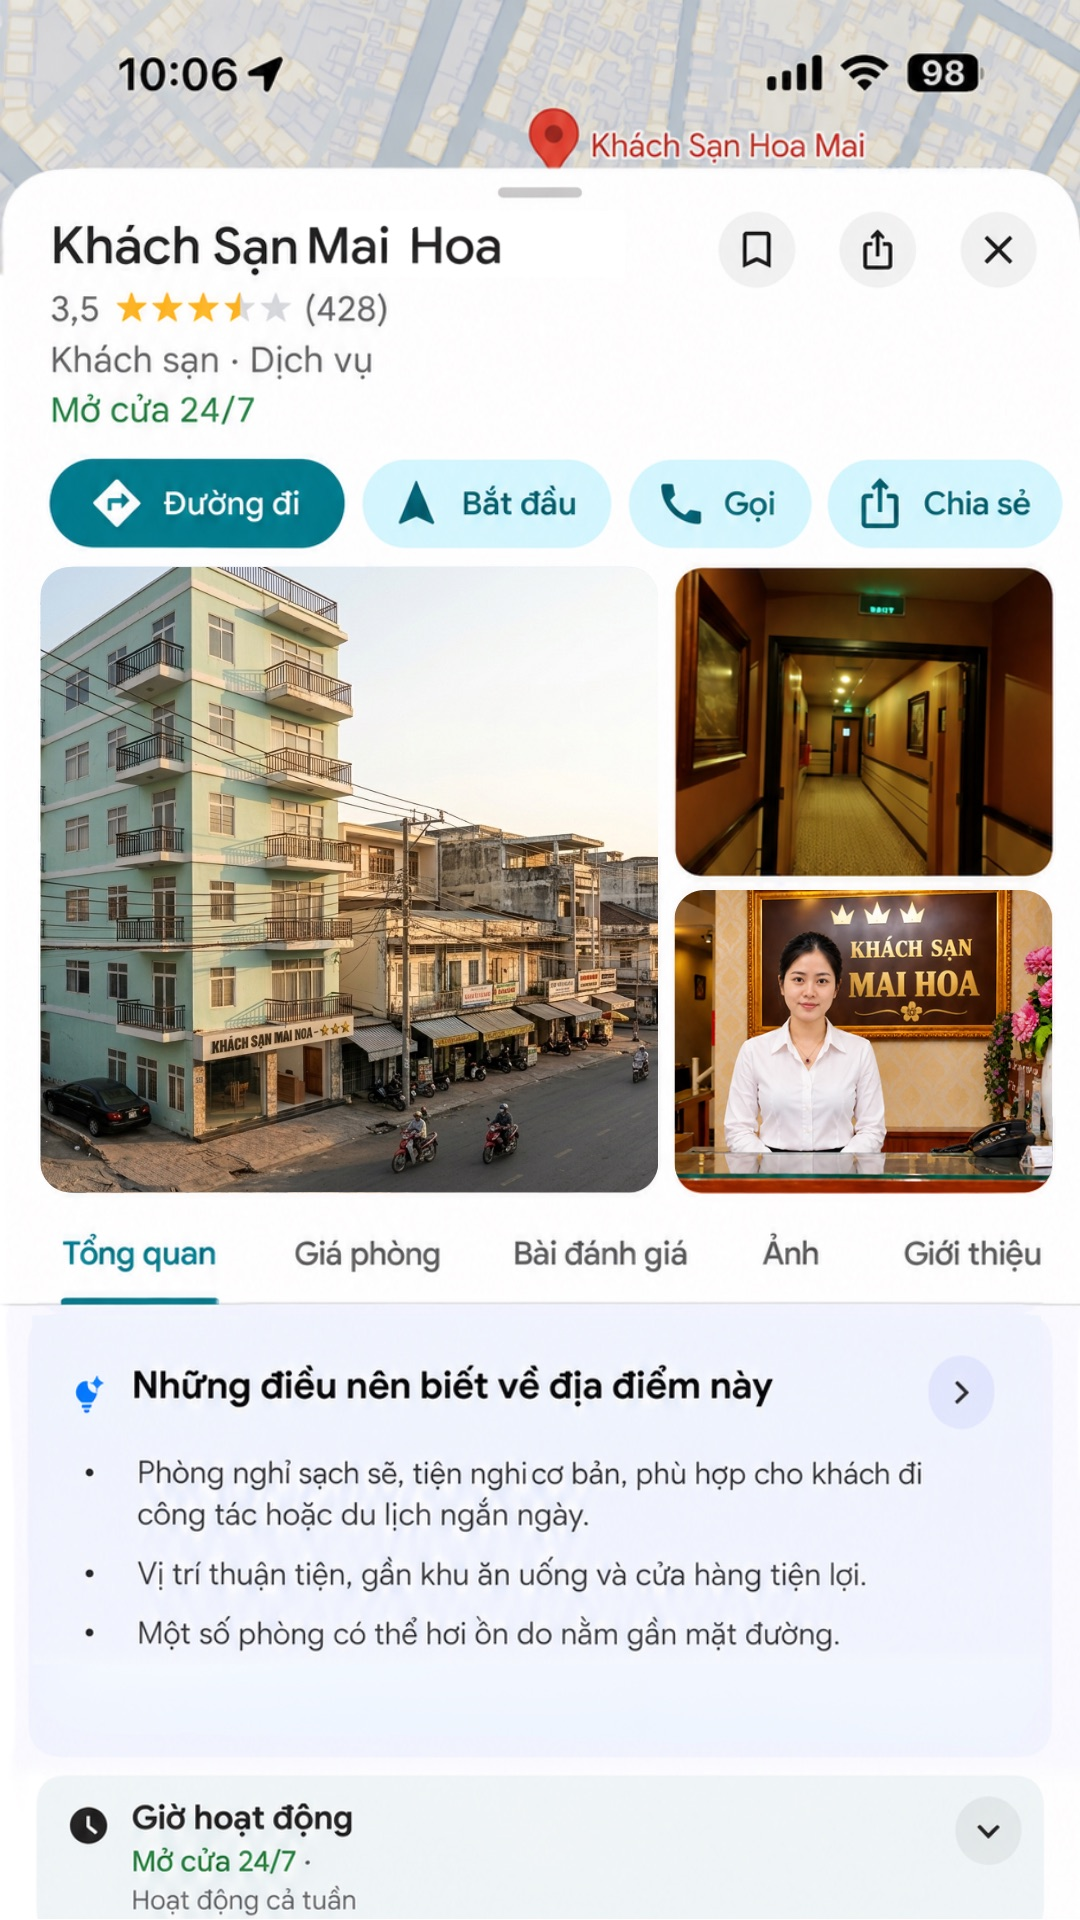
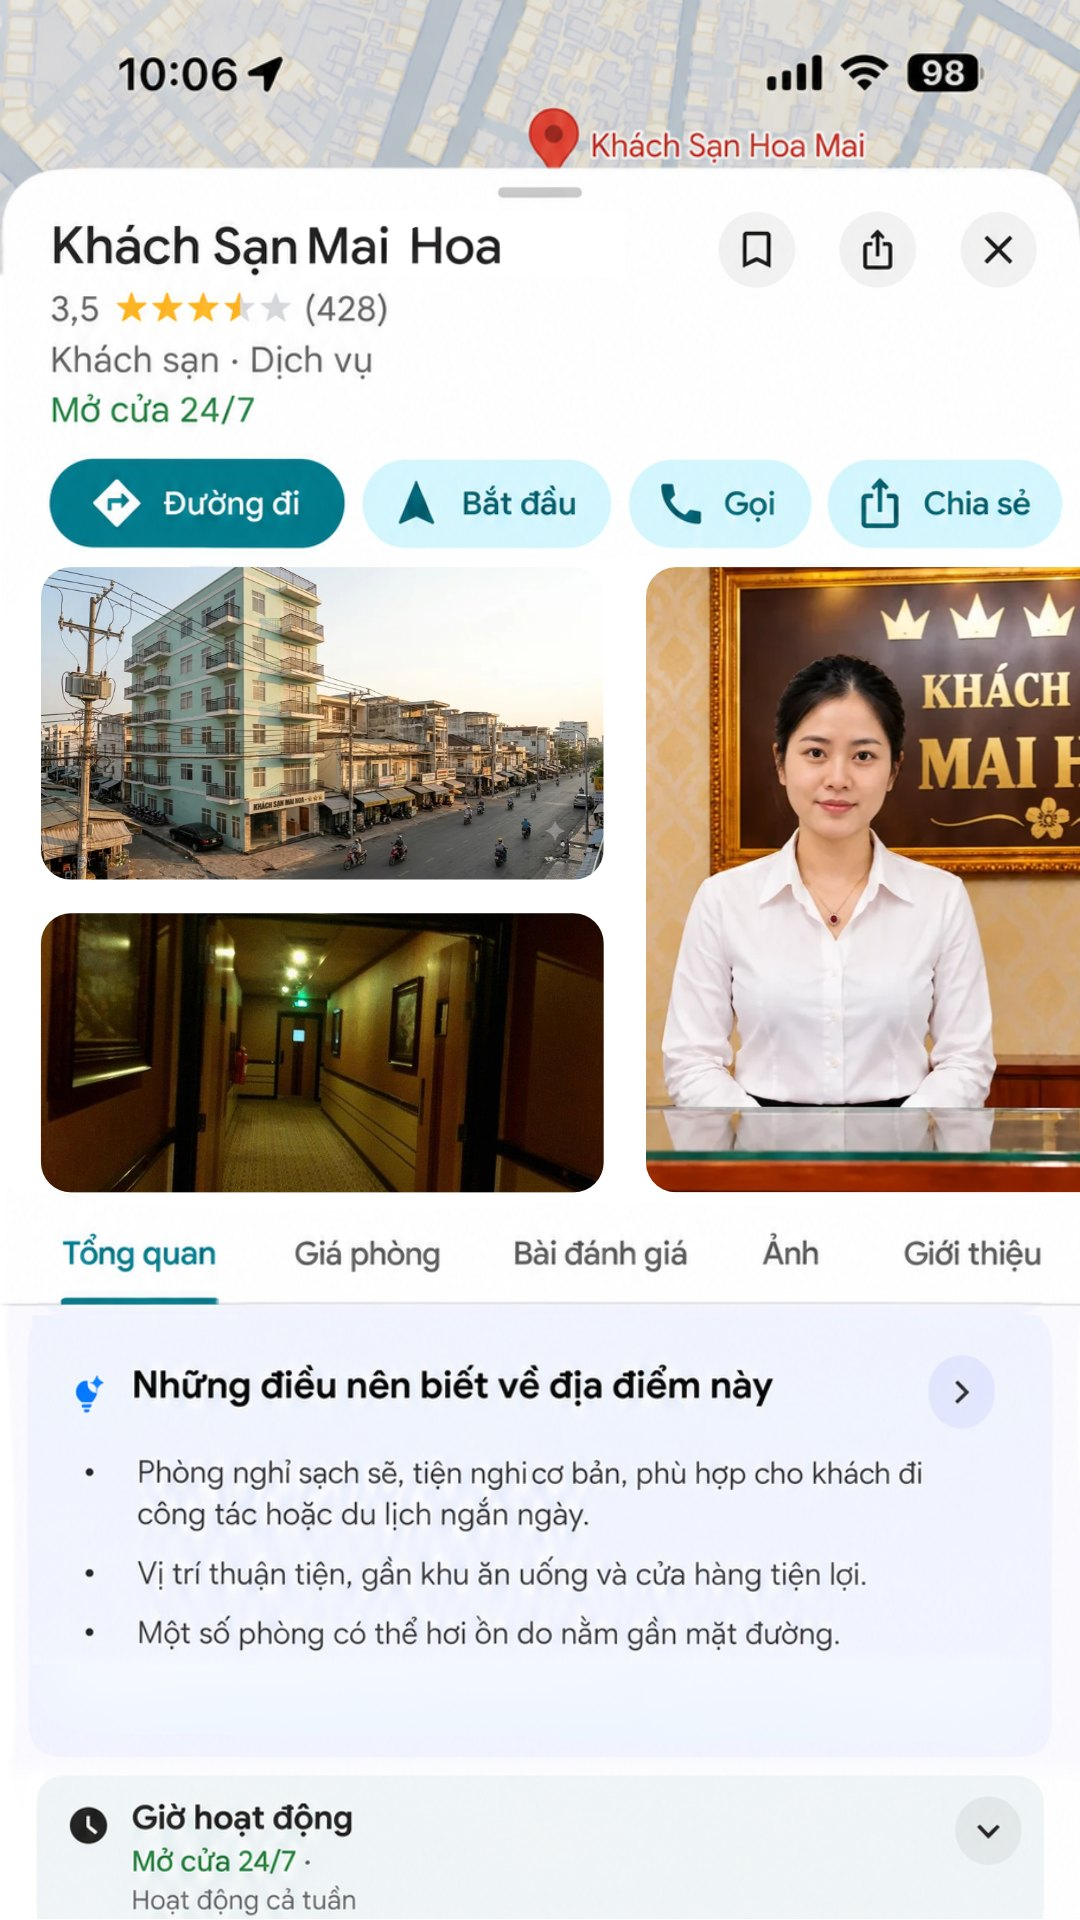
Đổi kết luận điều tra và ảnh GG maps ở trang giải thích Giai đoạn 2

Changed region(s): [[0.0306, 0.2812, 1.0, 0.625], [0.5806, 0.8438, 0.6111, 0.875], [0.3361, 0.75, 0.3667, 0.7812]]

diff --git a/src/data/product1.js b/src/data/product1.js
@@ -292,7 +292,7 @@ const explanations = {
           frame: 'polaroid',
           caption: 'Ảnh chụp màn hình điện thoại',
           // Kính lúp đặt dưới bên phải người phụ nữ, ra ngoài ảnh để không che dây chuyền; ring nhỏ = phóng to hơn
-          marks: [{ id: 'day-chuyen-le-tan', u: 0.747, v: 0.552, r: 0.06, ring: 0.02, lensAngle: 60, handleAngle: 50 }],
+          marks: [{ id: 'day-chuyen-le-tan', u: 0.772, v: 0.476, r: 0.06, ring: 0.02, lensAngle: 60, handleAngle: 50 }],
         },
         {
           id: 'vat-chung',
@@ -343,7 +343,7 @@ const explanations = {
     // Tờ ghi chú ghim trên bảng: kết luận điều tra
     note: {
       label: 'Kết luận điều tra',
-      text: 'Quá trình điều tra và đối chiếu các vật chứng thu thập được tại hiện trường đã xác định sợi dây chuyền do Phạm Thùy Chi nắm trong tay tại thời điểm rơi từ ban công thuộc sở hữu của Trần Chi Linh. Sự hiện diện của sợi dây chuyền này tại hiện trường là căn cứ quan trọng để xác định Trần Chi Linh chính là người đã tiếp xúc và gặp nạn nhân lần cuối trước khi xảy ra sự việc. Từ những tình tiết và chứng cứ thu thập được, cơ quan điều tra nhận định Trần Chi Linh là đối tượng cần được làm rõ, do đó tiến hành bắt giữ và lấy lời khai nhằm xác minh vai trò, mức độ liên quan của đối tượng, đồng thời làm sáng tỏ toàn bộ diễn biến vụ việc.',
+      text: 'Qua đối chiếu vật chứng, cơ quan điều tra xác định sợi dây chuyền Phạm Thùy Chi nắm trong tay thuộc sở hữu của Trần Chi Linh, cho thấy Linh là người cuối cùng tiếp xúc với nạn nhân. Từ đó, cơ quan điều tra tiến hành bắt giữ và lấy lời khai để làm rõ vai trò của Linh trong vụ việc.',
     },
     // Trang cuối của vụ án: nút về Trang chủ
     backTo: '/',
